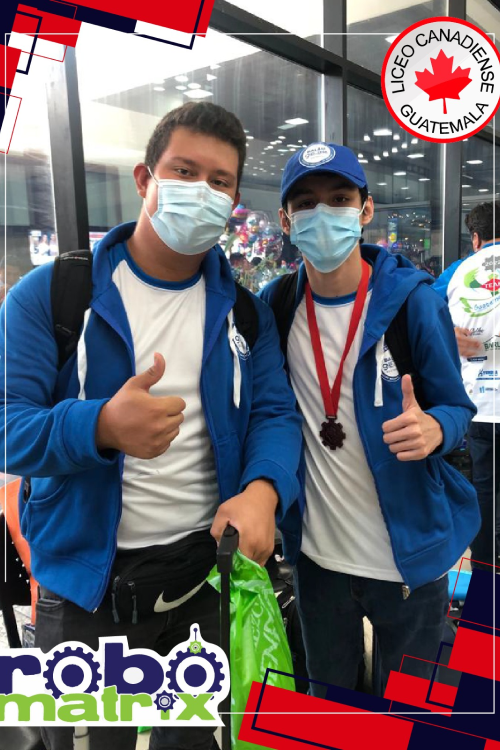
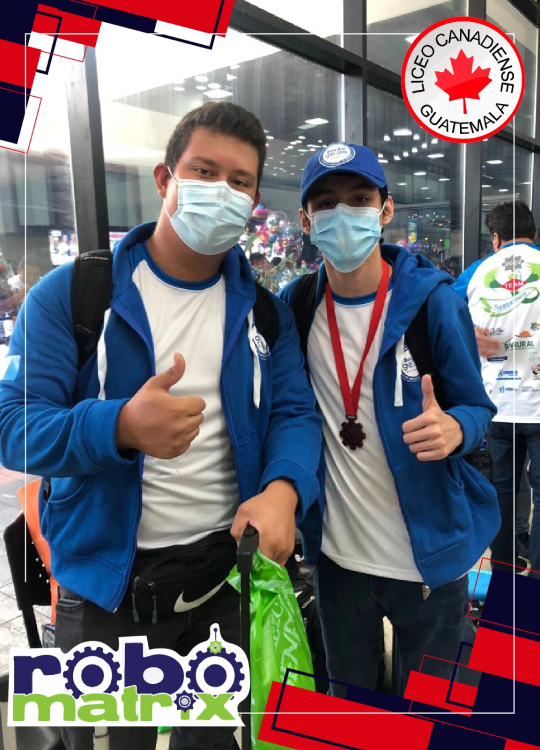
Fix botón de Whtasapp e imagenes

diff --git a/assets/global.css b/assets/global.css
@@ -1,23 +1,23 @@
-@import url('https://fonts.googleapis.com/css2?family=Poppins:ital,wght@0,100;0,200;0,300;0,400;0,500;0,600;0,700;0,800;0,900;1,100;1,200;1,300;1,400;1,500;1,600;1,700;1,800;1,900&display=swap');
-:root{
-        --primary-color: #FF2D37;
-        --secondary-color: #03103B;
-        --bg-primary: #616161;
+@import url("https://fonts.googleapis.com/css2?family=Poppins:ital,wght@0,100;0,200;0,300;0,400;0,500;0,600;0,700;0,800;0,900;1,100;1,200;1,300;1,400;1,500;1,600;1,700;1,800;1,900&display=swap");
+:root {
+  --primary-color: #ff2d37;
+  --secondary-color: #03103b;
+  --bg-primary: #616161;
 }
 
-*{
-    list-style: none;
-    font-family: 'Poppins', sans-serif;
+* {
+  list-style: none;
+  font-family: "Poppins", sans-serif;
 }
 
-html{
-    scroll-behavior: smooth;
+html {
+  scroll-behavior: smooth;
+  overflow-x: hidden;
+  box-sizing: border-box;
 }
 
-body{
-    overflow-x: hidden;
-    margin: 0;
-    padding: 0;
-    box-sizing: border-box;
-    background-color: #f1faff;
+body {
+  margin: 0;
+  padding: 0;
+  background-color: #f1faff;
 }
